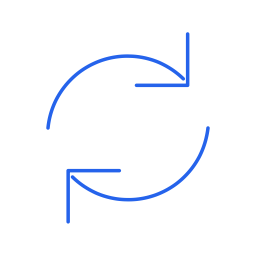
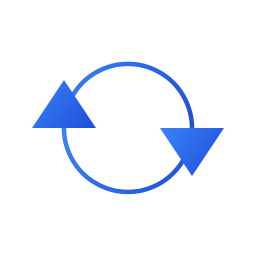
feat: 单 exe 部署（无 cmd + 双击出窗口 + 缩至托盘）+ premium 图标
部署：make build 产出单一 AutoSync.exe（-H windowsgui，无控制台黑窗），
双击弹出配置窗口、关闭即缩至托盘，守护继续运行。开机自启命令带
--background 后台静默启动，避免每次登录弹窗。

图标：按 Apple HIG 重做 SVG（渐变蓝双弧 + 实心三角箭头、透明底），
重生成 icon.png 与 exe .syso，托盘/窗口/exe 统一单一 PNG 源。

Changed region(s): [[0.125, 0.125, 0.875, 0.875]]

diff --git a/internal/tray/tray_fyne.go b/internal/tray/tray_fyne.go
@@ -36,14 +36,15 @@ func NewTrayApp(sched *tasksched.TaskScheduler, store *configstore.Store, logger
 	return &TrayApp{app: app.NewWithID("autosync"), sched: sched, store: store, logger: logger}
 }
 
-// Run 启动调度器与托盘事件循环，阻塞至用户退出。空配置时自动弹出配置窗口。
-func (a *TrayApp) Run() error {
+// Run 启动调度器与托盘事件循环，阻塞至用户退出。
+// showWindow 为真（双击裸跑）时弹出配置窗口；为假（开机自启 --background）时仅托盘守护。
+func (a *TrayApp) Run(showWindow bool) error {
 	a.refreshMenu()
 	if desk, ok := a.app.(desktop.App); ok {
 		desk.SetSystemTrayIcon(TrayIcon())
 	}
-	if len(a.store.List()) == 0 {
-		a.showConfig() // 首次运行无任务：自动弹出配置窗口
+	if showWindow {
+		a.showConfig()
 	}
 	a.sched.Start()
 	a.app.Run() // 阻塞至退出
@@ -121,7 +122,7 @@ func (a *TrayApp) runTask(name string) {
 	}()
 }
 
-// showConfig 打开配置窗口（已打开则前置）。
+// showConfig 打开配置窗口（已隐藏则再次显示）。关闭按钮仅隐藏至托盘，不退出守护。
 func (a *TrayApp) showConfig() {
 	if a.win != nil {
 		a.win.Show()
@@ -131,7 +132,8 @@ func (a *TrayApp) showConfig() {
 	a.win.SetIcon(TrayIcon())
 	a.win.SetContent(a.buildConfigContent())
 	a.win.Resize(fyne.NewSize(640, 420))
-	a.win.SetOnClosed(func() { a.win = nil })
+	// 关闭按钮隐藏窗口至托盘（守护继续运行），托盘"配置..."可再次唤出
+	a.win.SetCloseIntercept(func() { a.win.Hide() })
 	a.win.Show()
 }
 

diff --git a/cmd/autosync/main.go b/cmd/autosync/main.go
@@ -153,10 +153,12 @@ func runSync(rest []string) int {
 }
 
 // runTray 启动托盘守护：先建用户目录与日志 → 加载多任务配置 → 守护级单实例锁 → 调度器 → 托盘应用。
+// --background 供开机自启：后台启动不弹配置窗口；双击裸跑则弹出窗口供交互。
 // 无 traygui 标签构建时托盘为桩，Run 返回未启用错误。
 func runTray(rest []string) int {
 	fs := flag.NewFlagSet("autosync", flag.ContinueOnError)
 	configPath := fs.String("config", "", "配置文件路径（默认 ~/.autosync/autosync.conf.yaml）")
+	background := fs.Bool("background", false, "后台启动（不弹配置窗口，供开机自启）")
 	if err := fs.Parse(rest); err != nil {
 		return 1
 	}
@@ -192,7 +194,7 @@ func runTray(rest []string) int {
 	defer release()
 
 	sched := tasksched.NewTaskScheduler(store.List(), logger)
-	if err := tray.NewTrayApp(sched, store, logger).Run(); err != nil {
+	if err := tray.NewTrayApp(sched, store, logger).Run(!*background); err != nil {
 		logger.Error(fmt.Sprintf("托盘退出: %v", err))
 		fmt.Fprintf(os.Stderr, "❌ %v\n", err)
 		return 1

diff --git a/test/autostart_test.go b/test/autostart_test.go
@@ -7,10 +7,10 @@ import (
 	"autosync/internal/autostart"
 )
 
-// TestBuildRunCommand_DefaultConfig 验证缺省配置只启动托盘守护子命令。
+// TestBuildRunCommand_DefaultConfig 验证缺省配置以后台模式启动托盘守护。
 func TestBuildRunCommand_DefaultConfig(t *testing.T) {
 	got := autostart.BuildRunCommand(`C:\AutoSync\AutoSync.exe`, "")
-	want := `"C:\AutoSync\AutoSync.exe" tray`
+	want := `"C:\AutoSync\AutoSync.exe" tray --background`
 	if got != want {
 		t.Fatalf("got %q, want %q", got, want)
 	}
@@ -19,7 +19,7 @@ func TestBuildRunCommand_DefaultConfig(t *testing.T) {
 // TestBuildRunCommand_WithConfig 验证显式配置追加 --config。
 func TestBuildRunCommand_WithConfig(t *testing.T) {
 	got := autostart.BuildRunCommand(`/opt/autosync/autosync`, `/etc/autosync.conf.yaml`)
-	want := `"/opt/autosync/autosync" tray --config "/etc/autosync.conf.yaml"`
+	want := `"/opt/autosync/autosync" tray --background --config "/etc/autosync.conf.yaml"`
 	if got != want {
 		t.Fatalf("got %q, want %q", got, want)
 	}

diff --git a/internal/autostart/autostart.go b/internal/autostart/autostart.go
@@ -12,9 +12,10 @@ const AppName = "AutoSync"
 var ErrNotImplemented = errors.New("开机自启在当前平台未实现")
 
 // BuildRunCommand 构造开机自启的启动命令（纯函数，跨平台可测）。
-// 启动托盘守护子命令；configPath 非空时追加 --config 指定配置路径，否则用默认配置。
+// 以 --background 后台模式启动托盘守护（不弹配置窗口），避免每次登录弹窗；
+// configPath 非空时追加 --config 指定配置路径，否则用默认配置。
 func BuildRunCommand(exePath, configPath string) string {
-	cmd := "\"" + exePath + "\" tray"
+	cmd := "\"" + exePath + "\" tray --background"
 	if configPath != "" {
 		cmd += " --config \"" + configPath + "\""
 	}

diff --git a/internal/tray/tray_stub.go b/internal/tray/tray_stub.go
@@ -25,7 +25,7 @@ func NewTrayApp(sched *tasksched.TaskScheduler, store *configstore.Store, logger
 	return &TrayApp{}
 }
 
-// Run 托盘桩直接返回未启用错误。
-func (a *TrayApp) Run() error {
+// Run 托盘桩直接返回未启用错误。showWindow 参数仅为与 Fyne 实现 API 一致。
+func (a *TrayApp) Run(showWindow bool) error {
 	return ErrTrayDisabled
 }

diff --git a/docs/api.md b/docs/api.md
@@ -100,9 +100,9 @@ $ autosync install
 **响应**
 
 ```
-✅ 已设置开机自启："D:\AutoSync\AutoSync.exe" tray
+✅ 已设置开机自启："D:\AutoSync\AutoSync.exe" tray --background
 ```
-退出码 `0`。`--config` 指定托盘配置路径（相对路径转绝对），缺省由托盘自行解析 `~/.autosync/autosync.conf.yaml`。非 Windows 不支持（返回错误，退出码 `1`）。
+退出码 `0`。自启命令带 `--background` 后台启动（不弹窗口），登录即静默守护；`--config` 指定托盘配置路径（相对路径转绝对），缺省由托盘自行解析 `~/.autosync/autosync.conf.yaml`。非 Windows 不支持（返回错误，退出码 `1`）。
 
 ## uninstall
 
@@ -130,13 +130,15 @@ $ autosync uninstall
 无参数启动托盘守护进程（Fyne 窗口 + 托盘 + 内置定时器）。
 
 ```
-autosync                      # 启动托盘守护
+autosync                      # 启动托盘守护（双击等同，弹出配置窗口）
+autosync tray --background    # 后台启动（不弹窗口，供开机自启 / 无头）
 ```
 
+- 双击 exe 无 cmd 黑窗（`-H windowsgui`）：弹出配置窗口，关闭按钮即缩至托盘，守护继续运行。
 - 配置窗口：任务列表增删改，每任务 repo_dir / remote_url / branch / interval / conflict_strategy 等。
 - 托盘菜单：各任务手动同步 / 暂停、开机自启开关、打开配置、退出（同步状态经 `autosync status` 查询）。
 - 多任务配置：`autosync.conf.yaml` 的 `tasks: [...]`。
-- 开机自启：`install` 写注册表 Run 键、`uninstall` 移除（见上）；托盘菜单亦可切换。
+- 开机自启：`install` 写注册表 Run 键（命令带 `--background`）、`uninstall` 移除（见上）；托盘菜单亦可切换。
 
 ## 配置文件
 

diff --git a/README.md b/README.md
@@ -25,12 +25,12 @@
 
 ```bash
 # 构建（需 Go 1.26+ 与系统 git；托盘版需 CGO + gcc，用 -tags traygui）
-make build          # Windows 托盘双版本（控制台 + 静默）
+make build          # Windows 托盘版（单 exe，无控制台，双击出窗口）
 make build-cli      # 纯 Go CLI 版（无托盘，快速 / 跨平台）
 
-# 双击 AutoSync.exe → 配置窗口增删任务 → 最小化托盘 → 后台定时同步
-autosync                       # 启动托盘守护（双击等同）
-autosync install               # 开机自启（写注册表 Run 键）
+# 双击 AutoSync.exe → 配置窗口增删任务 → 关闭即缩至托盘 → 后台定时同步
+autosync                       # 启动托盘守护（双击等同，弹窗口）
+autosync install               # 开机自启（写注册表 Run 键，后台静默）
 autosync sync --dry-run        # CLI 一次性只读预览
 ```
 
